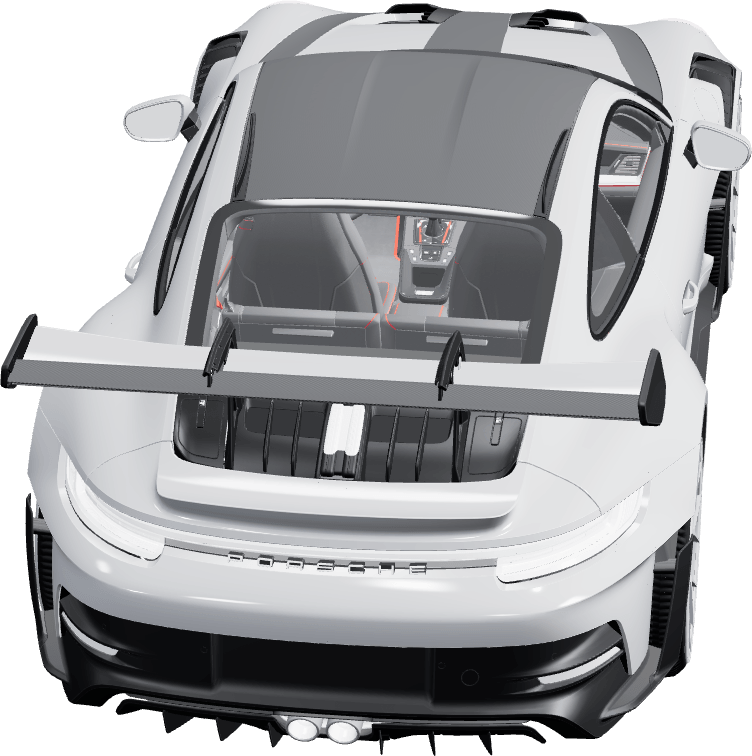
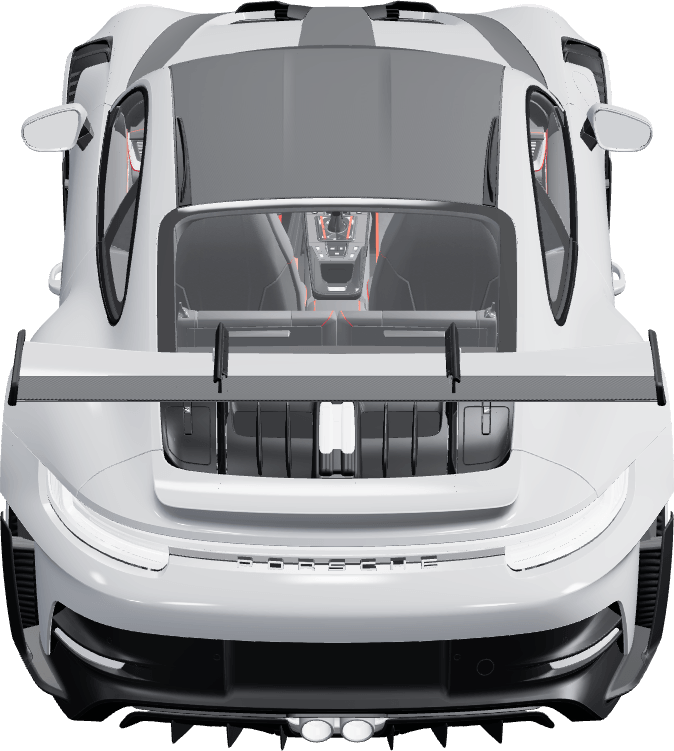
Escena 04: el coche recto sobre el carril y sin trazos de velocidad
A peticion del propietario: el render va ahora con la camara justo detras
(sin los 7 grados de escora, que lo dejaban ladeado) y desaparecen los
trazos que bajaban por los arcenes (marcado, CSS y tween). Regeneradas las
cinco versiones; verify.js 656/0.

diff --git a/ru/como-funciona/index.html b/ru/como-funciona/index.html
@@ -31,7 +31,7 @@
 <link rel="preconnect" href="https://fonts.gstatic.com" crossorigin>
 <link href="https://fonts.googleapis.com/css2?family=Barlow+Condensed:wght@400;500;600;700&family=DM+Sans:opsz,wght@9..40,400;9..40,500;9..40,600&display=swap" rel="stylesheet">
 <link rel="stylesheet" href="../../css/serres.css?v=d2586ca6f2">
-<link rel="stylesheet" href="../../css/how.css?v=0bce7d81e4">
+<link rel="stylesheet" href="../../css/how.css?v=354e9e79fc">
 <script type="application/ld+json">{"@context":"https://schema.org","@graph":[{"@type":"BreadcrumbList","itemListElement":[{"@type":"ListItem","position":1,"name":"Главная","item":"https://serresdrive.com/"},{"@type":"ListItem","position":2,"name":"Как это работает","item":"https://serresdrive.com/como-funciona/"}]},{"@type":"HowTo","name":"Как это работает","step":[{"@type":"HowToStep","position":1,"name":"Выбери автомобиль","text":"Выбери машину из тех, что сейчас в автопарке."},{"@type":"HowToStep","position":2,"name":"Забронируй","text":"Напиши в WhatsApp, подтверди даты и условия."},{"@type":"HowToStep","position":3,"name":"Забери","text":"Забери автомобиль сам или закажи доставку. Доставка и возврат по Барселоне и пригородам: 100 €."},{"@type":"HowToStep","position":4,"name":"Езжай","text":"Наслаждайся поездкой и верни автомобиль в оговорённый срок."}]}]}</script>
 </head>
 <body>
@@ -254,10 +254,9 @@
           <path class="edge" d="M120 600L455 330M880 600L545 330"/>
           <path class="dash" d="M500 600V330"/>
         </svg>
-        <span class="drive-lines"><i></i><i></i><i></i><i></i></span>
         <div class="drive-car">
-          <span class="drive-ghost"><picture><source type="image/webp" srcset="../../assets/img/how/gt3-top.webp?v=988f9c8109"><img src="../../assets/img/how/gt3-top.png?v=cd5c5bad7a" width="752" height="756" alt="" loading="lazy" decoding="async"></picture></span><span class="drive-ghost"><picture><source type="image/webp" srcset="../../assets/img/how/gt3-top.webp?v=988f9c8109"><img src="../../assets/img/how/gt3-top.png?v=cd5c5bad7a" width="752" height="756" alt="" loading="lazy" decoding="async"></picture></span><span class="drive-ghost"><picture><source type="image/webp" srcset="../../assets/img/how/gt3-top.webp?v=988f9c8109"><img src="../../assets/img/how/gt3-top.png?v=cd5c5bad7a" width="752" height="756" alt="" loading="lazy" decoding="async"></picture></span>
-          <span class="drive-shot"><picture><source type="image/webp" srcset="../../assets/img/how/gt3-top.webp?v=988f9c8109"><img src="../../assets/img/how/gt3-top.png?v=cd5c5bad7a" width="752" height="756" alt="" loading="lazy" decoding="async"></picture></span>
+          <span class="drive-ghost"><picture><source type="image/webp" srcset="../../assets/img/how/gt3-top.webp?v=aeae7cfc1b"><img src="../../assets/img/how/gt3-top.png?v=2cee7ac079" width="674" height="751" alt="" loading="lazy" decoding="async"></picture></span><span class="drive-ghost"><picture><source type="image/webp" srcset="../../assets/img/how/gt3-top.webp?v=aeae7cfc1b"><img src="../../assets/img/how/gt3-top.png?v=2cee7ac079" width="674" height="751" alt="" loading="lazy" decoding="async"></picture></span><span class="drive-ghost"><picture><source type="image/webp" srcset="../../assets/img/how/gt3-top.webp?v=aeae7cfc1b"><img src="../../assets/img/how/gt3-top.png?v=2cee7ac079" width="674" height="751" alt="" loading="lazy" decoding="async"></picture></span>
+          <span class="drive-shot"><picture><source type="image/webp" srcset="../../assets/img/how/gt3-top.webp?v=aeae7cfc1b"><img src="../../assets/img/how/gt3-top.png?v=2cee7ac079" width="674" height="751" alt="" loading="lazy" decoding="async"></picture></span>
         </div>
         <div class="drive-dash">
           <svg class="gauge" viewBox="0 0 120 120" aria-hidden="true">
@@ -316,7 +315,7 @@
 <script src="https://cdnjs.cloudflare.com/ajax/libs/gsap/3.12.5/gsap.min.js"></script>
 <script src="https://cdnjs.cloudflare.com/ajax/libs/gsap/3.12.5/ScrollTrigger.min.js"></script>
 <script>window.gsap&&window.ScrollTrigger&&gsap.registerPlugin(ScrollTrigger);</script>
-<script src="../../js/how.js?v=0bce7d81e4"></script>
+<script src="../../js/how.js?v=354e9e79fc"></script>
 <script src="../../js/site.js?v=d2586ca6f2" defer></script>
 </body>
 </html>

diff --git a/fr/como-funciona/index.html b/fr/como-funciona/index.html
@@ -31,7 +31,7 @@
 <link rel="preconnect" href="https://fonts.gstatic.com" crossorigin>
 <link href="https://fonts.googleapis.com/css2?family=Barlow+Condensed:wght@400;500;600;700&family=DM+Sans:opsz,wght@9..40,400;9..40,500;9..40,600&display=swap" rel="stylesheet">
 <link rel="stylesheet" href="../../css/serres.css?v=d2586ca6f2">
-<link rel="stylesheet" href="../../css/how.css?v=0bce7d81e4">
+<link rel="stylesheet" href="../../css/how.css?v=354e9e79fc">
 <script type="application/ld+json">{"@context":"https://schema.org","@graph":[{"@type":"BreadcrumbList","itemListElement":[{"@type":"ListItem","position":1,"name":"Accueil","item":"https://serresdrive.com/"},{"@type":"ListItem","position":2,"name":"Comment ça marche","item":"https://serresdrive.com/como-funciona/"}]},{"@type":"HowTo","name":"Comment ça marche","step":[{"@type":"HowToStep","position":1,"name":"Choisissez votre voiture","text":"Choisissez votre véhicule parmi notre flotte disponible."},{"@type":"HowToStep","position":2,"name":"Réservez","text":"Contactez-nous sur WhatsApp, confirmez les dates et les conditions."},{"@type":"HowToStep","position":3,"name":"Livraison","text":"Récupérez le véhicule ou demandez la livraison. Livraison et récupération dans l'aire métropolitaine : 100 €."},{"@type":"HowToStep","position":4,"name":"Conduisez","text":"Profitez de la route et rendez le véhicule dans le délai convenu."}]}]}</script>
 </head>
 <body>
@@ -254,10 +254,9 @@
           <path class="edge" d="M120 600L455 330M880 600L545 330"/>
           <path class="dash" d="M500 600V330"/>
         </svg>
-        <span class="drive-lines"><i></i><i></i><i></i><i></i></span>
         <div class="drive-car">
-          <span class="drive-ghost"><picture><source type="image/webp" srcset="../../assets/img/how/gt3-top.webp?v=988f9c8109"><img src="../../assets/img/how/gt3-top.png?v=cd5c5bad7a" width="752" height="756" alt="" loading="lazy" decoding="async"></picture></span><span class="drive-ghost"><picture><source type="image/webp" srcset="../../assets/img/how/gt3-top.webp?v=988f9c8109"><img src="../../assets/img/how/gt3-top.png?v=cd5c5bad7a" width="752" height="756" alt="" loading="lazy" decoding="async"></picture></span><span class="drive-ghost"><picture><source type="image/webp" srcset="../../assets/img/how/gt3-top.webp?v=988f9c8109"><img src="../../assets/img/how/gt3-top.png?v=cd5c5bad7a" width="752" height="756" alt="" loading="lazy" decoding="async"></picture></span>
-          <span class="drive-shot"><picture><source type="image/webp" srcset="../../assets/img/how/gt3-top.webp?v=988f9c8109"><img src="../../assets/img/how/gt3-top.png?v=cd5c5bad7a" width="752" height="756" alt="" loading="lazy" decoding="async"></picture></span>
+          <span class="drive-ghost"><picture><source type="image/webp" srcset="../../assets/img/how/gt3-top.webp?v=aeae7cfc1b"><img src="../../assets/img/how/gt3-top.png?v=2cee7ac079" width="674" height="751" alt="" loading="lazy" decoding="async"></picture></span><span class="drive-ghost"><picture><source type="image/webp" srcset="../../assets/img/how/gt3-top.webp?v=aeae7cfc1b"><img src="../../assets/img/how/gt3-top.png?v=2cee7ac079" width="674" height="751" alt="" loading="lazy" decoding="async"></picture></span><span class="drive-ghost"><picture><source type="image/webp" srcset="../../assets/img/how/gt3-top.webp?v=aeae7cfc1b"><img src="../../assets/img/how/gt3-top.png?v=2cee7ac079" width="674" height="751" alt="" loading="lazy" decoding="async"></picture></span>
+          <span class="drive-shot"><picture><source type="image/webp" srcset="../../assets/img/how/gt3-top.webp?v=aeae7cfc1b"><img src="../../assets/img/how/gt3-top.png?v=2cee7ac079" width="674" height="751" alt="" loading="lazy" decoding="async"></picture></span>
         </div>
         <div class="drive-dash">
           <svg class="gauge" viewBox="0 0 120 120" aria-hidden="true">
@@ -316,7 +315,7 @@
 <script src="https://cdnjs.cloudflare.com/ajax/libs/gsap/3.12.5/gsap.min.js"></script>
 <script src="https://cdnjs.cloudflare.com/ajax/libs/gsap/3.12.5/ScrollTrigger.min.js"></script>
 <script>window.gsap&&window.ScrollTrigger&&gsap.registerPlugin(ScrollTrigger);</script>
-<script src="../../js/how.js?v=0bce7d81e4"></script>
+<script src="../../js/how.js?v=354e9e79fc"></script>
 <script src="../../js/site.js?v=d2586ca6f2" defer></script>
 </body>
 </html>

diff --git a/ca/como-funciona/index.html b/ca/como-funciona/index.html
@@ -31,7 +31,7 @@
 <link rel="preconnect" href="https://fonts.gstatic.com" crossorigin>
 <link href="https://fonts.googleapis.com/css2?family=Barlow+Condensed:wght@400;500;600;700&family=DM+Sans:opsz,wght@9..40,400;9..40,500;9..40,600&display=swap" rel="stylesheet">
 <link rel="stylesheet" href="../../css/serres.css?v=d2586ca6f2">
-<link rel="stylesheet" href="../../css/how.css?v=0bce7d81e4">
+<link rel="stylesheet" href="../../css/how.css?v=354e9e79fc">
 <script type="application/ld+json">{"@context":"https://schema.org","@graph":[{"@type":"BreadcrumbList","itemListElement":[{"@type":"ListItem","position":1,"name":"Inici","item":"https://serresdrive.com/"},{"@type":"ListItem","position":2,"name":"Com funciona","item":"https://serresdrive.com/como-funciona/"}]},{"@type":"HowTo","name":"Com funciona","step":[{"@type":"HowToStep","position":1,"name":"Tria el teu cotxe","text":"Tria el teu vehicle de la nostra flota disponible."},{"@type":"HowToStep","position":2,"name":"Reserva","text":"Contacta per WhatsApp, confirma dates i condicions."},{"@type":"HowToStep","position":3,"name":"Lliurament","text":"Recull el vehicle o demana el lliurament. Lliurament i recollida a l'àrea metropolitana: 100 €."},{"@type":"HowToStep","position":4,"name":"Condueix","text":"Gaudeix del viatge i torna el vehicle en el termini acordat."}]}]}</script>
 </head>
 <body>
@@ -254,10 +254,9 @@
           <path class="edge" d="M120 600L455 330M880 600L545 330"/>
           <path class="dash" d="M500 600V330"/>
         </svg>
-        <span class="drive-lines"><i></i><i></i><i></i><i></i></span>
         <div class="drive-car">
-          <span class="drive-ghost"><picture><source type="image/webp" srcset="../../assets/img/how/gt3-top.webp?v=988f9c8109"><img src="../../assets/img/how/gt3-top.png?v=cd5c5bad7a" width="752" height="756" alt="" loading="lazy" decoding="async"></picture></span><span class="drive-ghost"><picture><source type="image/webp" srcset="../../assets/img/how/gt3-top.webp?v=988f9c8109"><img src="../../assets/img/how/gt3-top.png?v=cd5c5bad7a" width="752" height="756" alt="" loading="lazy" decoding="async"></picture></span><span class="drive-ghost"><picture><source type="image/webp" srcset="../../assets/img/how/gt3-top.webp?v=988f9c8109"><img src="../../assets/img/how/gt3-top.png?v=cd5c5bad7a" width="752" height="756" alt="" loading="lazy" decoding="async"></picture></span>
-          <span class="drive-shot"><picture><source type="image/webp" srcset="../../assets/img/how/gt3-top.webp?v=988f9c8109"><img src="../../assets/img/how/gt3-top.png?v=cd5c5bad7a" width="752" height="756" alt="" loading="lazy" decoding="async"></picture></span>
+          <span class="drive-ghost"><picture><source type="image/webp" srcset="../../assets/img/how/gt3-top.webp?v=aeae7cfc1b"><img src="../../assets/img/how/gt3-top.png?v=2cee7ac079" width="674" height="751" alt="" loading="lazy" decoding="async"></picture></span><span class="drive-ghost"><picture><source type="image/webp" srcset="../../assets/img/how/gt3-top.webp?v=aeae7cfc1b"><img src="../../assets/img/how/gt3-top.png?v=2cee7ac079" width="674" height="751" alt="" loading="lazy" decoding="async"></picture></span><span class="drive-ghost"><picture><source type="image/webp" srcset="../../assets/img/how/gt3-top.webp?v=aeae7cfc1b"><img src="../../assets/img/how/gt3-top.png?v=2cee7ac079" width="674" height="751" alt="" loading="lazy" decoding="async"></picture></span>
+          <span class="drive-shot"><picture><source type="image/webp" srcset="../../assets/img/how/gt3-top.webp?v=aeae7cfc1b"><img src="../../assets/img/how/gt3-top.png?v=2cee7ac079" width="674" height="751" alt="" loading="lazy" decoding="async"></picture></span>
         </div>
         <div class="drive-dash">
           <svg class="gauge" viewBox="0 0 120 120" aria-hidden="true">
@@ -316,7 +315,7 @@
 <script src="https://cdnjs.cloudflare.com/ajax/libs/gsap/3.12.5/gsap.min.js"></script>
 <script src="https://cdnjs.cloudflare.com/ajax/libs/gsap/3.12.5/ScrollTrigger.min.js"></script>
 <script>window.gsap&&window.ScrollTrigger&&gsap.registerPlugin(ScrollTrigger);</script>
-<script src="../../js/how.js?v=0bce7d81e4"></script>
+<script src="../../js/how.js?v=354e9e79fc"></script>
 <script src="../../js/site.js?v=d2586ca6f2" defer></script>
 </body>
 </html>

diff --git a/en/como-funciona/index.html b/en/como-funciona/index.html
@@ -31,7 +31,7 @@
 <link rel="preconnect" href="https://fonts.gstatic.com" crossorigin>
 <link href="https://fonts.googleapis.com/css2?family=Barlow+Condensed:wght@400;500;600;700&family=DM+Sans:opsz,wght@9..40,400;9..40,500;9..40,600&display=swap" rel="stylesheet">
 <link rel="stylesheet" href="../../css/serres.css?v=d2586ca6f2">
-<link rel="stylesheet" href="../../css/how.css?v=0bce7d81e4">
+<link rel="stylesheet" href="../../css/how.css?v=354e9e79fc">
 <script type="application/ld+json">{"@context":"https://schema.org","@graph":[{"@type":"BreadcrumbList","itemListElement":[{"@type":"ListItem","position":1,"name":"Home","item":"https://serresdrive.com/"},{"@type":"ListItem","position":2,"name":"How it works","item":"https://serresdrive.com/como-funciona/"}]},{"@type":"HowTo","name":"How it works","step":[{"@type":"HowToStep","position":1,"name":"Choose your car","text":"Pick your car from the fleet we have available."},{"@type":"HowToStep","position":2,"name":"Book","text":"Message us on WhatsApp, confirm dates and terms."},{"@type":"HowToStep","position":3,"name":"Delivery","text":"Collect the car or ask us to bring it to you. Delivery and collection in the metropolitan area: 100 €."},{"@type":"HowToStep","position":4,"name":"Drive","text":"Enjoy the drive and bring the car back on the agreed date."}]}]}</script>
 </head>
 <body>
@@ -254,10 +254,9 @@
           <path class="edge" d="M120 600L455 330M880 600L545 330"/>
           <path class="dash" d="M500 600V330"/>
         </svg>
-        <span class="drive-lines"><i></i><i></i><i></i><i></i></span>
         <div class="drive-car">
-          <span class="drive-ghost"><picture><source type="image/webp" srcset="../../assets/img/how/gt3-top.webp?v=988f9c8109"><img src="../../assets/img/how/gt3-top.png?v=cd5c5bad7a" width="752" height="756" alt="" loading="lazy" decoding="async"></picture></span><span class="drive-ghost"><picture><source type="image/webp" srcset="../../assets/img/how/gt3-top.webp?v=988f9c8109"><img src="../../assets/img/how/gt3-top.png?v=cd5c5bad7a" width="752" height="756" alt="" loading="lazy" decoding="async"></picture></span><span class="drive-ghost"><picture><source type="image/webp" srcset="../../assets/img/how/gt3-top.webp?v=988f9c8109"><img src="../../assets/img/how/gt3-top.png?v=cd5c5bad7a" width="752" height="756" alt="" loading="lazy" decoding="async"></picture></span>
-          <span class="drive-shot"><picture><source type="image/webp" srcset="../../assets/img/how/gt3-top.webp?v=988f9c8109"><img src="../../assets/img/how/gt3-top.png?v=cd5c5bad7a" width="752" height="756" alt="" loading="lazy" decoding="async"></picture></span>
+          <span class="drive-ghost"><picture><source type="image/webp" srcset="../../assets/img/how/gt3-top.webp?v=aeae7cfc1b"><img src="../../assets/img/how/gt3-top.png?v=2cee7ac079" width="674" height="751" alt="" loading="lazy" decoding="async"></picture></span><span class="drive-ghost"><picture><source type="image/webp" srcset="../../assets/img/how/gt3-top.webp?v=aeae7cfc1b"><img src="../../assets/img/how/gt3-top.png?v=2cee7ac079" width="674" height="751" alt="" loading="lazy" decoding="async"></picture></span><span class="drive-ghost"><picture><source type="image/webp" srcset="../../assets/img/how/gt3-top.webp?v=aeae7cfc1b"><img src="../../assets/img/how/gt3-top.png?v=2cee7ac079" width="674" height="751" alt="" loading="lazy" decoding="async"></picture></span>
+          <span class="drive-shot"><picture><source type="image/webp" srcset="../../assets/img/how/gt3-top.webp?v=aeae7cfc1b"><img src="../../assets/img/how/gt3-top.png?v=2cee7ac079" width="674" height="751" alt="" loading="lazy" decoding="async"></picture></span>
         </div>
         <div class="drive-dash">
           <svg class="gauge" viewBox="0 0 120 120" aria-hidden="true">
@@ -316,7 +315,7 @@
 <script src="https://cdnjs.cloudflare.com/ajax/libs/gsap/3.12.5/gsap.min.js"></script>
 <script src="https://cdnjs.cloudflare.com/ajax/libs/gsap/3.12.5/ScrollTrigger.min.js"></script>
 <script>window.gsap&&window.ScrollTrigger&&gsap.registerPlugin(ScrollTrigger);</script>
-<script src="../../js/how.js?v=0bce7d81e4"></script>
+<script src="../../js/how.js?v=354e9e79fc"></script>
 <script src="../../js/site.js?v=d2586ca6f2" defer></script>
 </body>
 </html>

diff --git a/como-funciona/index.html b/como-funciona/index.html
@@ -31,7 +31,7 @@
 <link rel="preconnect" href="https://fonts.gstatic.com" crossorigin>
 <link href="https://fonts.googleapis.com/css2?family=Barlow+Condensed:wght@400;500;600;700&family=DM+Sans:opsz,wght@9..40,400;9..40,500;9..40,600&display=swap" rel="stylesheet">
 <link rel="stylesheet" href="../css/serres.css?v=d2586ca6f2">
-<link rel="stylesheet" href="../css/how.css?v=0bce7d81e4">
+<link rel="stylesheet" href="../css/how.css?v=354e9e79fc">
 <script type="application/ld+json">{"@context":"https://schema.org","@graph":[{"@type":"BreadcrumbList","itemListElement":[{"@type":"ListItem","position":1,"name":"Inicio","item":"https://serresdrive.com/"},{"@type":"ListItem","position":2,"name":"Cómo funciona","item":"https://serresdrive.com/como-funciona/"}]},{"@type":"HowTo","name":"Cómo funciona","step":[{"@type":"HowToStep","position":1,"name":"Elige tu coche","text":"Elige tu vehículo de nuestra flota disponible."},{"@type":"HowToStep","position":2,"name":"Reserva","text":"Contacta por WhatsApp, confirma fechas y condiciones."},{"@type":"HowToStep","position":3,"name":"Entrega","text":"Recoge el vehículo o solicita la entrega. Entrega y recogida en el área metropolitana: 100 €."},{"@type":"HowToStep","position":4,"name":"Conduce","text":"Disfruta del viaje y devuelve el vehículo en el plazo acordado."}]}]}</script>
 </head>
 <body>
@@ -254,10 +254,9 @@
           <path class="edge" d="M120 600L455 330M880 600L545 330"/>
           <path class="dash" d="M500 600V330"/>
         </svg>
-        <span class="drive-lines"><i></i><i></i><i></i><i></i></span>
         <div class="drive-car">
-          <span class="drive-ghost"><picture><source type="image/webp" srcset="../assets/img/how/gt3-top.webp?v=988f9c8109"><img src="../assets/img/how/gt3-top.png?v=cd5c5bad7a" width="752" height="756" alt="" loading="lazy" decoding="async"></picture></span><span class="drive-ghost"><picture><source type="image/webp" srcset="../assets/img/how/gt3-top.webp?v=988f9c8109"><img src="../assets/img/how/gt3-top.png?v=cd5c5bad7a" width="752" height="756" alt="" loading="lazy" decoding="async"></picture></span><span class="drive-ghost"><picture><source type="image/webp" srcset="../assets/img/how/gt3-top.webp?v=988f9c8109"><img src="../assets/img/how/gt3-top.png?v=cd5c5bad7a" width="752" height="756" alt="" loading="lazy" decoding="async"></picture></span>
-          <span class="drive-shot"><picture><source type="image/webp" srcset="../assets/img/how/gt3-top.webp?v=988f9c8109"><img src="../assets/img/how/gt3-top.png?v=cd5c5bad7a" width="752" height="756" alt="" loading="lazy" decoding="async"></picture></span>
+          <span class="drive-ghost"><picture><source type="image/webp" srcset="../assets/img/how/gt3-top.webp?v=aeae7cfc1b"><img src="../assets/img/how/gt3-top.png?v=2cee7ac079" width="674" height="751" alt="" loading="lazy" decoding="async"></picture></span><span class="drive-ghost"><picture><source type="image/webp" srcset="../assets/img/how/gt3-top.webp?v=aeae7cfc1b"><img src="../assets/img/how/gt3-top.png?v=2cee7ac079" width="674" height="751" alt="" loading="lazy" decoding="async"></picture></span><span class="drive-ghost"><picture><source type="image/webp" srcset="../assets/img/how/gt3-top.webp?v=aeae7cfc1b"><img src="../assets/img/how/gt3-top.png?v=2cee7ac079" width="674" height="751" alt="" loading="lazy" decoding="async"></picture></span>
+          <span class="drive-shot"><picture><source type="image/webp" srcset="../assets/img/how/gt3-top.webp?v=aeae7cfc1b"><img src="../assets/img/how/gt3-top.png?v=2cee7ac079" width="674" height="751" alt="" loading="lazy" decoding="async"></picture></span>
         </div>
         <div class="drive-dash">
           <svg class="gauge" viewBox="0 0 120 120" aria-hidden="true">
@@ -316,7 +315,7 @@
 <script src="https://cdnjs.cloudflare.com/ajax/libs/gsap/3.12.5/gsap.min.js"></script>
 <script src="https://cdnjs.cloudflare.com/ajax/libs/gsap/3.12.5/ScrollTrigger.min.js"></script>
 <script>window.gsap&&window.ScrollTrigger&&gsap.registerPlugin(ScrollTrigger);</script>
-<script src="../js/how.js?v=0bce7d81e4"></script>
+<script src="../js/how.js?v=354e9e79fc"></script>
 <script src="../js/site.js?v=d2586ca6f2" defer></script>
 </body>
 </html>

diff --git a/js/how.js b/js/how.js
@@ -254,7 +254,6 @@
     var needle = sec.querySelector(".gauge .needle");
     var start = sec.querySelector(".drive-start");
     var dash = sec.querySelector(".drive-road .dash");
-    var lines = sec.querySelector(".drive-lines");
     var speedEl = sec.querySelector(".drive-speed b");
     var s = { rpm: 0, speed: 0 };
     function render() {
@@ -285,8 +284,7 @@
     tl.to(s, { rpm: 0.9, duration: 0.12, ease: "power2.inOut" }, 0.26);
     tl.to(car, { y: 1.6, duration: 0.012, repeat: 15, yoyo: true }, 0.18);
     /* acelera y se va hacia el horizonte: el coche (visto desde arriba)
-       encoge hacia el punto de fuga de la carretera, con estelas detrás y
-       trazos de velocidad que bajan por los arcenes. */
+       encoge hacia el punto de fuga de la carretera, con estelas detrás. */
     var stage = sec.querySelector(".drive");
     /* Distancia vertical del centro del coche al punto de fuga. El SVG de la
        carretera va con preserveAspectRatio "xMidYMax slice": escala k =
@@ -307,10 +305,6 @@
       tl.fromTo(g, { opacity: 0, yPercent: 0, scale: 1 }, { opacity: 0.34 - i * 0.09, yPercent: (i + 1) * 9, scale: 1 + (i + 1) * 0.05, duration: 0.2, ease: "power2.in" }, 0.56);
       tl.to(g, { opacity: 0, duration: 0.1 }, 0.78);
     });
-    if (lines) {
-      tl.fromTo(lines, { opacity: 0, y: -40 }, { opacity: 1, y: 260, duration: 0.3, ease: "power2.in" }, 0.56);
-      tl.to(lines, { opacity: 0, duration: 0.08 }, 0.86);
-    }
     /* las marcas del carril corren hacia la cámara: la carretera pasa bajo el coche */
     if (dash) tl.fromTo(dash, { strokeDashoffset: 0 }, { strokeDashoffset: 680, duration: 0.5, ease: "power2.in" }, 0.5);
     /* se ha ido: la aguja cae, el marcador se apaga */

diff --git a/css/how.css b/css/how.css
@@ -368,13 +368,6 @@ html.lenis,.lenis.lenis-smooth{scroll-behavior:auto!important}
 /* Estelas: copias del coche que quedan atrás cuando sale. */
 .drive-ghost{position:absolute;inset:0;opacity:0;pointer-events:none}
 .drive-ghost img{filter:blur(3px) brightness(1.15)}
-/* Líneas de velocidad: trazos que bajan por los dos lados de la carretera. */
-.drive-lines{position:absolute;inset:0;pointer-events:none;opacity:0}
-.drive-lines i{position:absolute;width:2px;border-radius:2px;background:linear-gradient(180deg,transparent,rgba(238,240,244,.85))}
-.drive-lines i:nth-child(1){left:24%;top:30%;height:22%}
-.drive-lines i:nth-child(2){left:31%;top:22%;height:15%}
-.drive-lines i:nth-child(3){left:69%;top:34%;height:26%}
-.drive-lines i:nth-child(4){left:76%;top:24%;height:14%}
 /* El cuadro: cuentarrevoluciones + botón de arranque, como un HUD. */
 .drive-dash{
   position:absolute;left:18px;bottom:16px;z-index:3;display:flex;align-items:flex-end;gap:14px;

diff --git a/_build/render-car-top.js b/_build/render-car-top.js
@@ -36,10 +36,10 @@ const VIEWS = probe
       { name: 'chase-30-off', elev: 30, azim: -78, yaw: 0 },
     ]
   /* Camara de persecucion: detras del coche, a 30 grados, como un dron que
-     lo sigue, 7 grados escorado para que asomen las ruedas del lado derecho
-     apoyadas en el asfalto (de frente las tapa la zaga ancha del GT3).
+     lo sigue, justo detras: escorado unos grados el coche se veia ladeado
+     sobre el carril.
      Una planta pura (elev ~90) parecia que el coche volaba. */
-  : [{ name: 'gt3-top', elev: 26, azim: -83, yaw: 0 }];
+  : [{ name: 'gt3-top', elev: 26, azim: -90, yaw: 0 }];
 
 const W = 2000, H = 2000;
 

diff --git a/_build/build-site.js b/_build/build-site.js
@@ -927,7 +927,6 @@ ${others.length ? `<section class="section--tight" style="padding-top:0">
           <path class="edge" d="M120 600L455 330M880 600L545 330"/>
           <path class="dash" d="M500 600V330"/>
         </svg>
-        <span class="drive-lines"><i></i><i></i><i></i><i></i></span>
         <div class="drive-car">
           <span class="drive-ghost">${carPic}</span><span class="drive-ghost">${carPic}</span><span class="drive-ghost">${carPic}</span>
           <span class="drive-shot">${carPic}</span>
